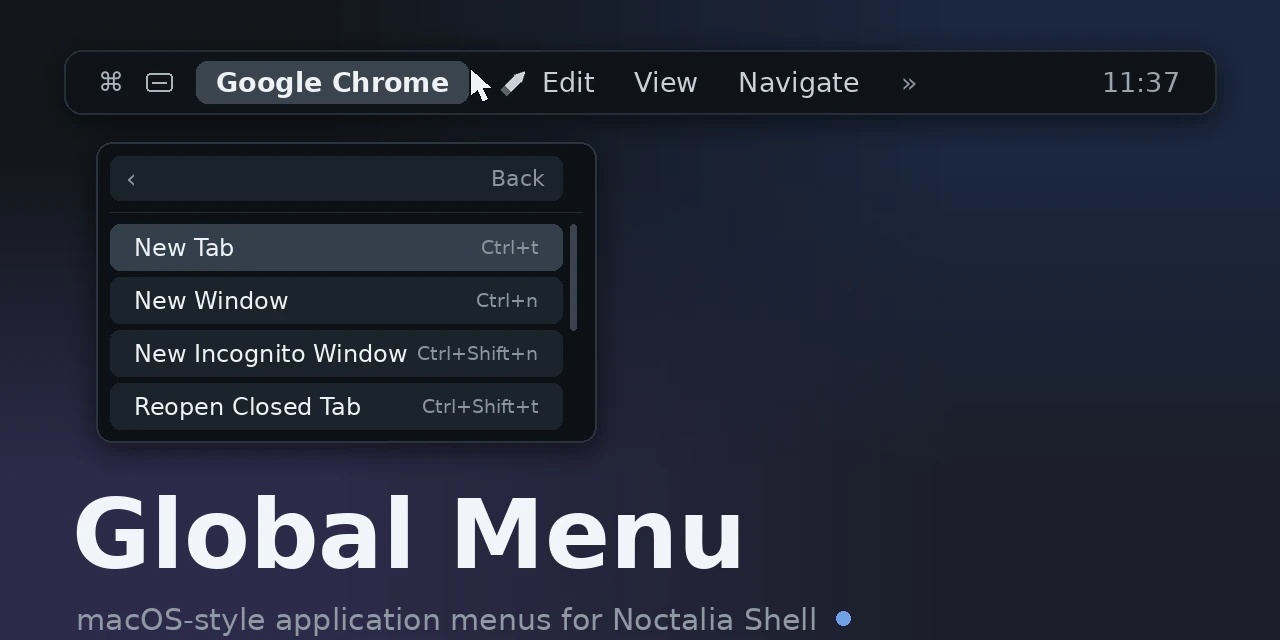
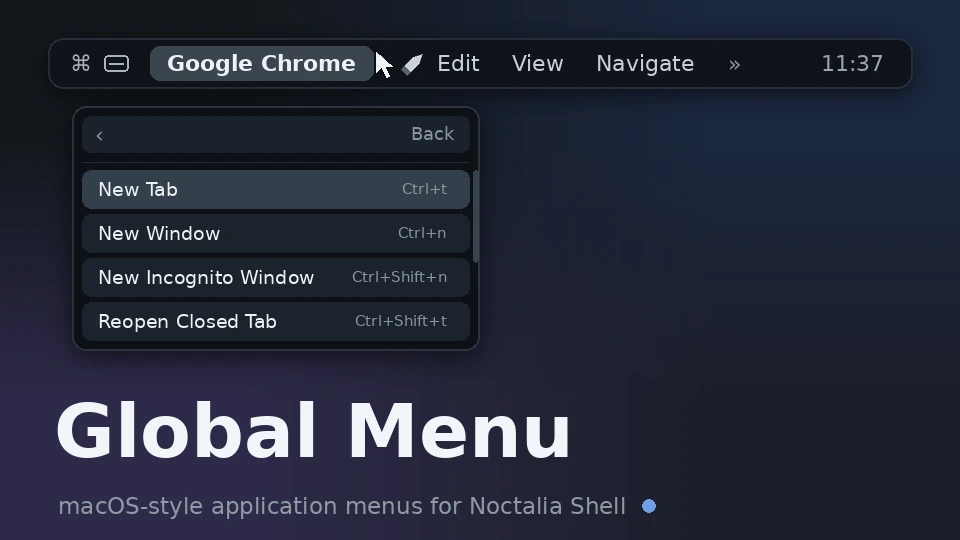
Fix minor issues before publishing

diff --git a/README.md b/README.md
@@ -20,93 +20,38 @@ under a » button instead of being cut off.
 - `python3` with `python3-dbus` and `python3-gi` on `PATH` (the manifest
   declares exactly these). The plugin spawns its Python companion daemon
   automatically; you never run it by hand.
-- Window tracking uses the standard `wlr_foreign_toplevel_management_unstable_v1`
-  Wayland protocol. This is **not** a compositor-specific binding: under
-  Wayland's security model no client can see other windows or read input
-  focus directly, so a global menu must ask the compositor, and this one
-  protocol is the only compositor-agnostic way to do that. Any compositor
-  that speaks it works identically — Hyprland, niri, sway, river, Wayfire,
-  labwc, KWin, MangoWC and others. No compositor-specific IPC (`hyprctl`,
-  `niri msg`, `swaymsg`, ...) is used anywhere.
 - `wtype` on `PATH` if you want **shortcut menus**: item clicks either
   activate a GTK action on the application's own action bus (GIMP-style
   mappings) or synthesize real keystrokes into the focused window.
+- Window tracking uses the standard `wlr_foreign_toplevel_management_unstable_v1`
+  Wayland protocol, so any compositor that speaks it works identically —
+  Hyprland, niri, sway, river, Wayfire, labwc, KWin, MangoWC and others.
+  No compositor-specific IPC (`hyprctl`, `niri msg`, `swaymsg`, ...) is used.
 - For native menus, the application must either register with the AppMenu
   registrar (most Qt, Electron, Chromium and Firefox apps) or export a
   GTK menubar (GTK 3/4 apps). Applications that do neither fall back to
   curated shortcut menus or window/session actions.
 
-## How it works
-
-A service entry spawns the Python daemon and streams its JSON output. The
-daemon owns all D-Bus and Wayland work and publishes menu snapshots to the
-plugin state channel; commands flow back over a loopback-only HTTP endpoint
-whose port is negotiated in the daemon's hello line. Menu sources, in order
-of preference per focused application:
-
-1. `com.canonical.dbusmenu` via the AppMenu registrar
-2. `org.gtk.Menus`
-3. Curated shortcut mappings (bundled in `daemon/shortcuts/apps.zip`)
-4. Fallback window and session actions
-
-The bar widget renders the focused app's name and its top-level menu labels
-and hides itself entirely when there is nothing to show. Because the shell
-gives a bar widget no width to read, the strip is budgeted from the bar's
-output width (or the *Menu bar width budget* setting) using conservative text
-estimates; every label pushed out of the budget stays reachable under the »
-button, which opens the same popup with the overflowed menus listed.
-
-## Install
-
-### From the plugin store
-
-The plugin lives in the Noctalia community store. Enable it directly:
-
-```sh
-noctalia msg plugins enable amancode22/noctalia-gmenu
-```
-
-or open **Settings → Plugins**, find **Global Menu** under the community
-source and toggle it on. Store installs update automatically with the
-*Auto-update plugins* setting.
-
-### From a git clone
-
-```sh
-mkdir -p ~/noctalia-plugins
-git clone https://github.com/AmanCode22/noctalia-gmenu \
-    ~/noctalia-plugins/noctalia-gmenu
-noctalia msg plugins source add my-plugins path ~/noctalia-plugins
-noctalia msg plugins enable amancode22/noctalia-gmenu
-```
-
-Pulling with `git pull` inside the clone and running
-`noctalia msg plugins update my-plugins` picks up new versions.
-
-Once enabled — from either method — open Noctalia's settings, add the
-**Global Menu** widget to your bar and make sure the Python dependencies
-above are installed. The daemon starts with the plugin and is restarted
-automatically if its heartbeat is lost; it is stopped cleanly when the
-plugin is disabled, reloaded or uninstalled.
-
 ## Usage
+
+Once enabled, open Noctalia's settings and add the **Global Menu** (`menubar`)
+widget to your bar. The widget appears only when a window is focused.
 
 - Click a menu label in the bar to open the popup on that menu; click the
   same label again (or re-click the app name) to close it. Switching labels
   while the popup is open closes and reopens it, so it re-anchors under the
   freshly clicked label like on macOS.
-- Click the **application name** to open the app menu: *About <app>* (opens
+- Click the **application name** to open the app menu: *About \<app\>* (opens
   an info view with the app id, menu source and window state), *Minimize*,
   *Maximize*, *Fullscreen* (with live checkmarks), a *Resize* group
-  (*Restore Size*, *Maximize*, *Fullscreen*) and *Quit <app>* — which
+  (*Restore Size*, *Maximize*, *Fullscreen*) and *Quit \<app\>* — which
   activates the application's own Quit item when it exports one, and
   otherwise closes every window of the app.
 - Inside the popup: `Up`/`Down` move the selection, `Right` enters a submenu,
   `Left` goes back, `Return` activates. Clicks work too, and a back row with
   breadcrumbs appears inside submenus.
-- Window actions use the foreign-toplevel protocol only; exact pixel resize
-  is not part of that protocol, so the Resize group offers the maximize /
-  fullscreen / restore geometry options instead.
+- Menu labels that do not fit the bar's width budget stay reachable under the
+  » button, which opens the popup with the overflowed menus listed.
 - Open or close the popup from a terminal:
 
 ```sh
@@ -128,13 +73,62 @@ enables or disables this whole source in the daemon.
 
 ## Settings
 
-| Setting | Default | Description |
-| --- | --- | --- |
-| Show application name | on | Show the focused app's name in front of its menus. |
-| Shortcut menus | on | Curated menus for apps that export none; clicks activate GTK actions or send keystrokes (`wtype`). |
-| Fallback menus | on | Window and session actions for apps with no menu at all. |
-| Menu labels in the bar (widget) | 0 | Hard cap on top-level labels; 0 shows every menu. |
-| Menu bar width budget (widget) | 0 | Max width in px before labels move under »; 0 fits to half of the screen width. |
+Plugin-level settings are edited under Settings → Plugins (the gear on the
+plugin row); the two widget settings are edited where the widget is added.
+
+| Setting | Type | Default | Description |
+| --- | --- | --- | --- |
+| `show_app_name` | `bool` | `true` | Show the focused app's name in front of its menus. |
+| `shortcut_menus` | `bool` | `true` | Curated menus for apps that export none; clicks activate GTK actions or send keystrokes (`wtype`). |
+| `fallback_menus` | `bool` | `true` | Window and session actions for apps with no menu at all. |
+| `max_menus` | `int` (widget) | `0` | Hard cap on top-level menu labels in the bar; `0` shows every menu. |
+| `bar_max_width` | `int` (widget) | `0` | Max width in px for the app name and menu labels before the rest moves under »; `0` fits to half of the screen width. |
+
+## IPC
+
+The service entry accepts two events (services have no output, so target
+`all`):
+
+```sh
+noctalia msg plugin amancode22/noctalia-gmenu:service all refresh
+```
+
+Re-requests the menu tree for the focused window.
+
+```sh
+noctalia msg plugin amancode22/noctalia-gmenu:service all reload-shortcuts
+```
+
+Reloads custom shortcut mappings from
+`~/.config/noctalia/global-menu/shortcuts/apps`.
+
+## Notes
+
+- **Spawned processes.** A `python3` companion daemon (`daemon/globalmenu_daemon.py`)
+  is started with the plugin and owns all D-Bus and Wayland work; it is
+  stopped when the plugin is disabled, reloaded or uninstalled. Shortcut
+  activation may run `wtype`.
+- **Network.** The Luau entries talk to the daemon over `127.0.0.1` only
+  (loopback HTTP on an ephemeral port); no external hosts are contacted.
+- **Files.** Runtime state (pid file, cached menu data) lives under the
+  plugin's data directory; custom shortcut mappings are read from
+  `~/.config/noctalia/global-menu/shortcuts/apps`.
+
+### How it works
+
+A service entry spawns the Python daemon and streams its JSON output. Menu
+sources, in order of preference per focused application:
+
+1. `com.canonical.dbusmenu` via the AppMenu registrar
+2. `org.gtk.Menus`
+3. Curated shortcut mappings (bundled in `daemon/shortcuts/apps.zip`)
+4. Fallback window and session actions
+
+The bar widget renders the focused app's name and its top-level menu labels
+and hides itself entirely when there is nothing to show. Because the shell
+gives a bar widget no width to read, the strip is budgeted from the bar's
+output width (or the *Menu bar width budget* setting) using conservative text
+estimates.
 
 ## Troubleshooting
 
